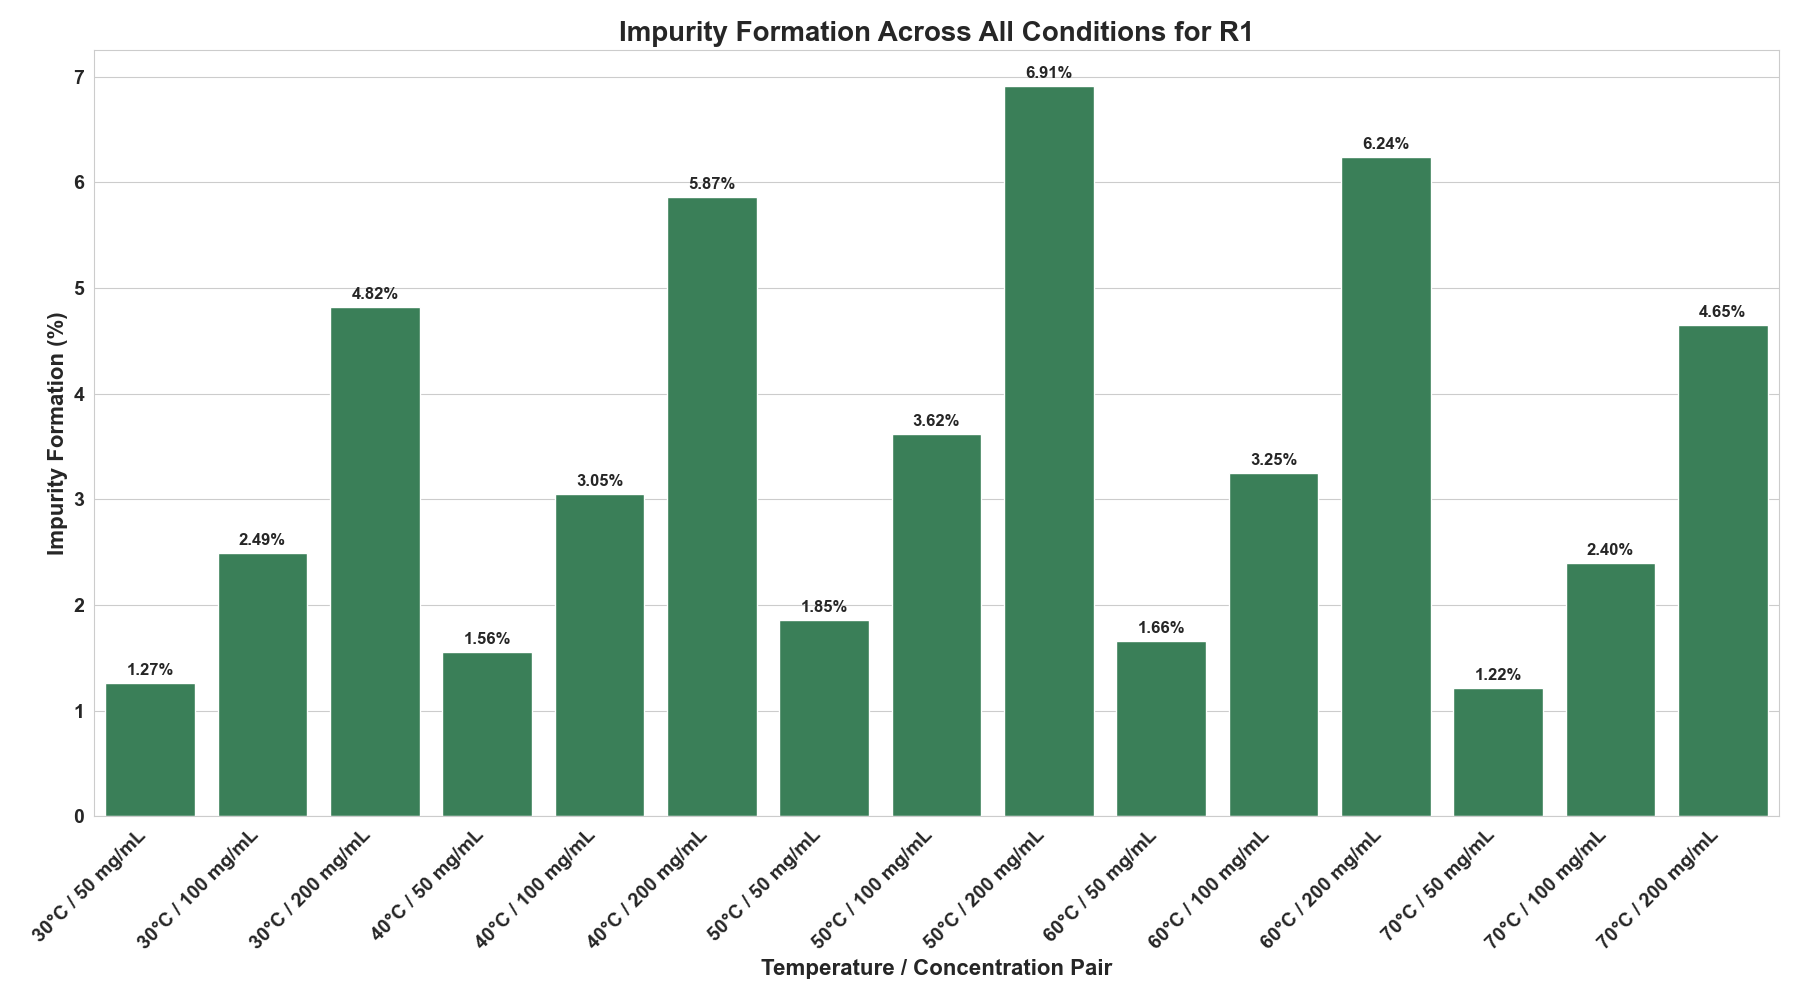
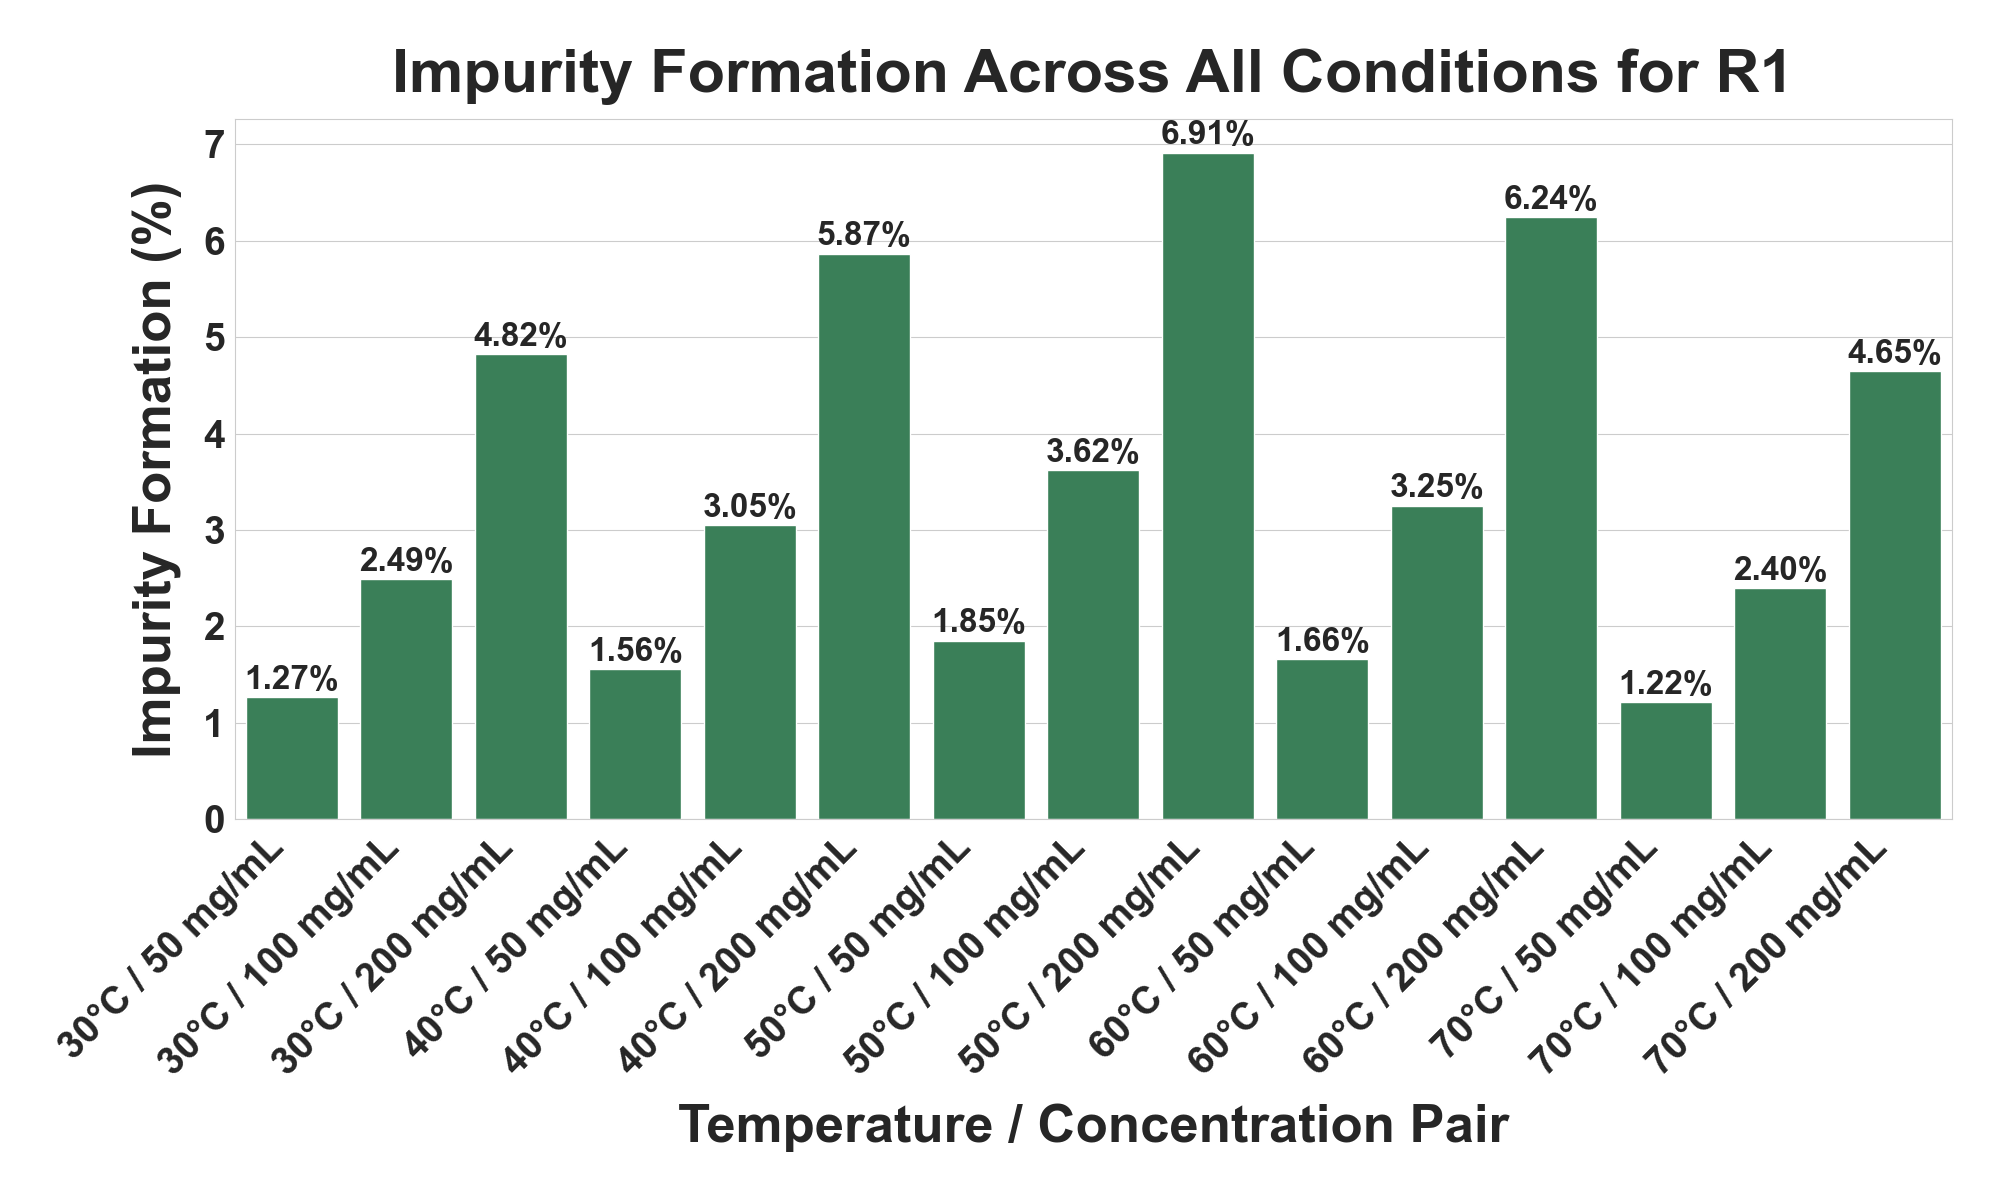
Update plot_impurity_by_condition.py with larger fonts for better readability

diff --git a/plot_impurity_by_condition.py b/plot_impurity_by_condition.py
@@ -49,14 +49,16 @@ def plot_impurity_by_condition(reaction_name, input_file='Q1 - Rxn_Analysis.xlsx
     # Set plot style and font parameters for readability
     sns.set_style("whitegrid")
     plt.rcParams.update({
-        'font.size': 14,
+        'font.size': 32,
         'font.weight': 'bold',
         'axes.labelweight': 'bold',
-        'axes.titleweight': 'bold'
+        'axes.titleweight': 'bold',
+        'xtick.labelsize': 28,
+        'ytick.labelsize': 28
     })
 
     # Create a larger figure
-    plt.figure(figsize=(18, 10))
+    plt.figure(figsize=(20, 12))
 
     # Create the bar plot
     ax = sns.barplot(
@@ -67,21 +69,22 @@ def plot_impurity_by_condition(reaction_name, input_file='Q1 - Rxn_Analysis.xlsx
     )
 
     # --- Labels and Titles ---
-    plt.title(f'Impurity Formation Across All Conditions for {reaction_name}', fontsize=20, fontweight='bold')
-    plt.xlabel('Temperature / Concentration Pair', fontsize=16, fontweight='bold')
-    plt.ylabel('Impurity Formation (%)', fontsize=16, fontweight='bold')
+    plt.title(f'Impurity Formation Across All Conditions for {reaction_name}', fontsize=44, fontweight='bold', pad=20)
+    plt.xlabel('Temperature / Concentration Pair', fontsize=38, fontweight='bold', labelpad=15)
+    plt.ylabel('Impurity Formation (%)', fontsize=38, fontweight='bold', labelpad=15)
 
     # Rotate x-axis labels for better visibility
-    plt.xticks(rotation=45, ha='right')
+    plt.xticks(rotation=45, ha='right', fontsize=28, fontweight='bold')
+    plt.yticks(fontsize=28, fontweight='bold')
 
     # Add value labels on top of each bar
     for p in ax.patches:
         ax.annotate(f'{p.get_height():.2f}%',
                     (p.get_x() + p.get_width() / 2., p.get_height()),
                     ha='center', va='center',
-                    xytext=(0, 9),
+                    xytext=(0, 12),
                     textcoords='offset points',
-                    fontsize=12,
+                    fontsize=24,
                     fontweight='bold')
 
     # Adjust layout and save the plot
